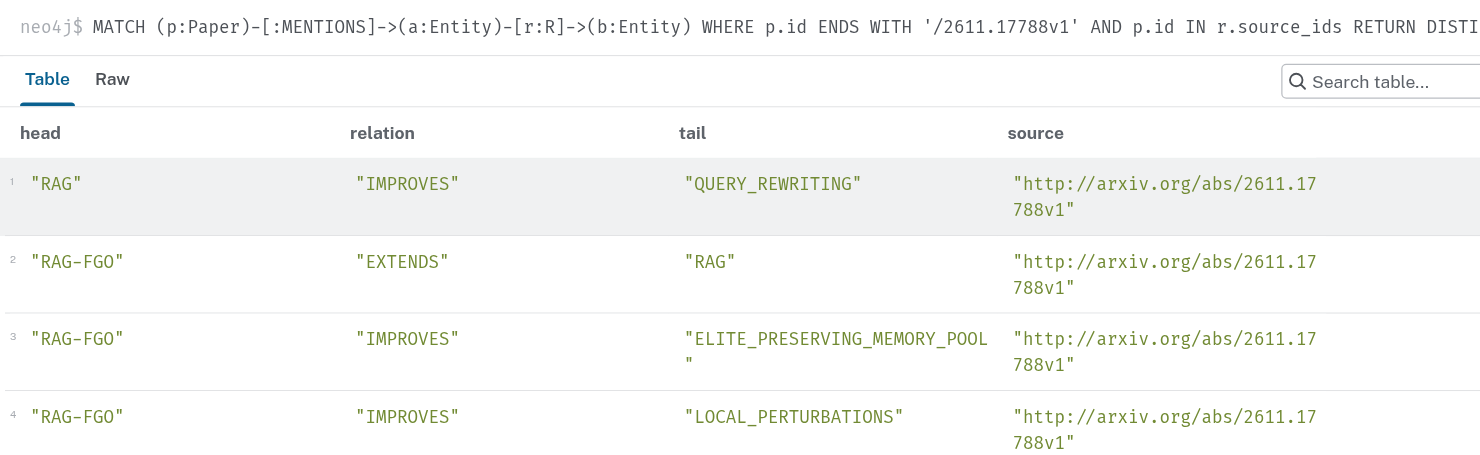
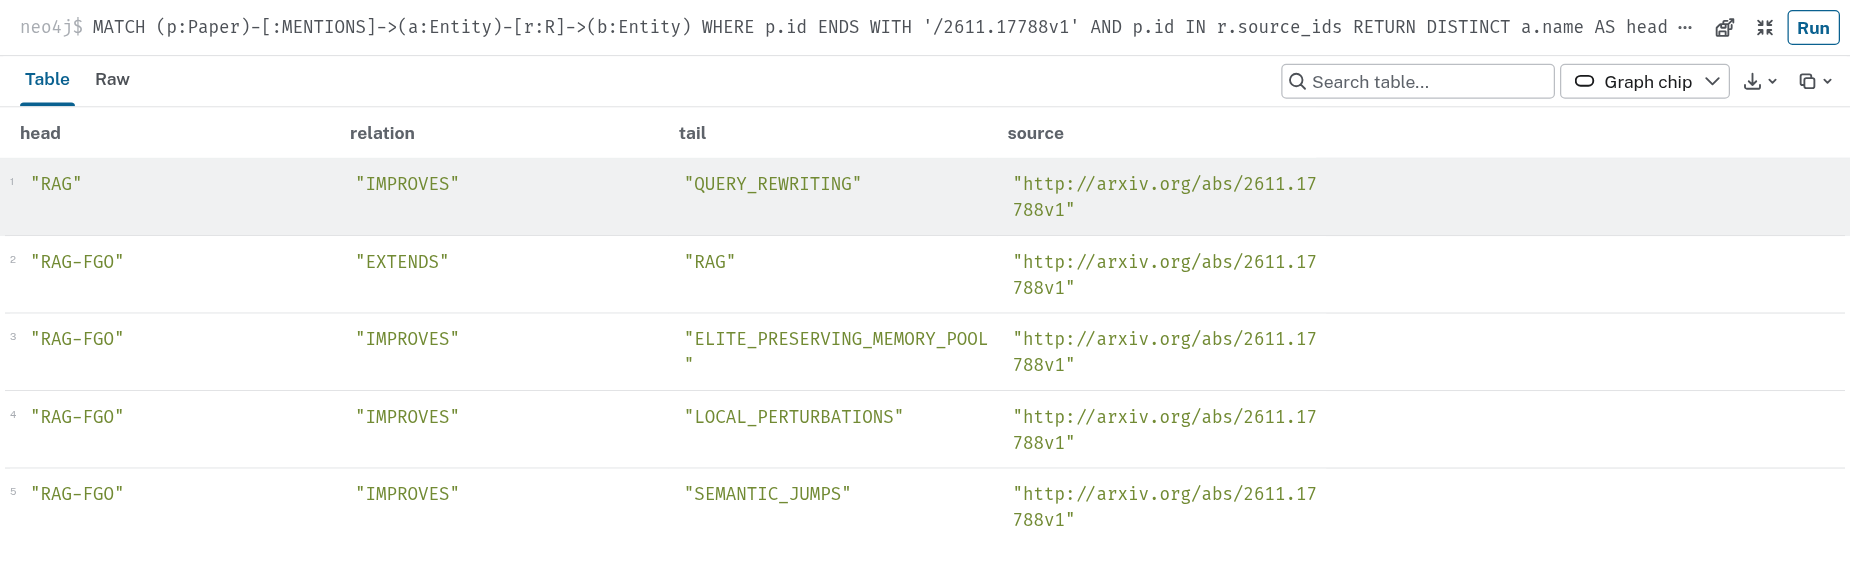
Clarify the RAG-FGO example and substantiate review results

diff --git a/README.md b/README.md
@@ -1,6 +1,10 @@
 # GraphRAG Papers — код-ревью
 
-Локальный сервис ответов по английским аннотациям arXiv. Сначала он находит статьи, затем добавляет извлечённые из них связи и передаёт контекст Qwen. Это RAG с графовым обогащением, а не поиск новых статей по графу.
+Локальный сервис ответов по заголовкам и аннотациям из категории arXiv `cs.CL` (вычислительная лингвистика). Полные PDF не загружаем. Корпус и граф готовим заранее; при вопросе в интернет за статьями не идём.
+
+**Какой здесь RAG?** RAG (*retrieval-augmented generation*) — генерация ответа с опорой на найденные документы. Здесь поиск гибридный: MiniLM даёт вектор вопроса для поиска по смыслу, а распознанное имя метода дополнительно ищется в заголовках. Выбираем до трёх статей. Только после этого читаем из графа связи с указанием этих статей как источников. Qwen получает вопрос, заголовки, аннотации, ссылки и отобранные связи. Граф обогащает ответный контекст, но не выбирает дополнительные статьи.
+
+**А что такое RAG-FGO?** Это метод **из демонстрационной статьи**, а не алгоритм этого сервиса. По [аннотации](data/papers.json#L2350), авторы подбирают, как лучше переформулировать поисковый запрос: меняют шаблон инструкции и параметры генерации, а удачные стратегии сохраняют для следующих итераций. В нашем [`prepare_context`](code/qa.py) строка вопроса сразу поступает в `model.encode(question)`: ни переписывания вопроса, ни пула стратегий здесь нет. Поэтому на ревью говори: «Мой RAG отвечает **про** RAG-FGO, а не работает **по методу** RAG-FGO».
 
 **На ревью ничего не запускай.** Открой код и [сохранённые результаты](RESULTS_RU.md). Для репетиции: [план подготовки](PREP_RU.md), [короткие ответы](QUESTIONS_RU.md) и [подробный разбор вопросов по коду](CODE_QUESTIONS_DETAILED_RU.md).
 
@@ -21,6 +25,8 @@
 ## Отдельно: подготовка локальной базы
 
 Нужны Python 3.12+, `uv`, Neo4j с поддержкой векторных индексов и Ollama. В `data/` уже есть корпус и тройки, получать их заново не обязательно. Подготовка меняет БД: используй отдельную локальную базу.
+
+Все команды в материалах даны из папки с этим README, `pyproject.toml` и `code/`: в отдельном репозитории это корень, в исходном проекте — `review/code-review/`.
 
 ```bash
 uv sync

diff --git a/PREP_RU.md b/PREP_RU.md
@@ -6,7 +6,7 @@
 |---|---|---|
 | Настрой экран | Открой эту папку. Увеличь шрифт. Разложи вкладки по [сценарию](README.md). Открой [результаты](RESULTS_RU.md); найди `2611.17788v1` в `data/triplets.jsonl`. | Быстро находишь `ask_endpoint`, тройку, `source_ids` и два ответа. |
 | Разбери трудные места | В [разборе вопросов](QUESTIONS_RU.md) закрой ответы и объясни `yield`, приоритет совпадения в заголовке, `coalesce`, `source_ids` и `bool(set(...) & found)`. | На каждый вопрос сначала отвечаешь одним предложением, потом рисуешь пример. |
-| Прогони один пример | Для `RAG-FGO` отбрось общее `RAG`, поставь B со совпадением выше A без него, а затем пропусти связь только с правильным `source_ids`. Сравни два промпта. | Можешь объяснить все четыре перехода без подсказки. |
+| Прогони один пример | Возьми вопрос `How does RAG-FGO improve RAG?` Из него сохраняется целиком `rag-fgo`, а **отдельное слово** `RAG` отбрасывается. Статья с `RAG-FGO` в заголовке идёт выше кандидата без совпадения. Дальше проверь `source_ids` у связи и сравни два промпта. | Объясняешь, что твой сервис ищет статью про RAG-FGO, а не реализует метод из неё. |
 | Отрепетируй показ | Пройди [маршрут](README.md) вслух от подготовки данных до результата. Уложись в общий лимит. Если не успеваешь, убери подробности HTTP, регулярных выражений и формата полного отчёта. | Не пропустил разницу между `MENTIONS` и `source_ids` и можешь объяснить, почему сравнение честное. |
 | Подготовь вопросы | Повтори, что доказывают `4/4` и `1/4`, что ограничивают `num_ctx` и `num_predict` и почему граф не расширяет поиск. Закрой лишние вкладки и `.env`. | Начинаешь с задачи, не просишь терминал и не называешь старый отчёт живым результатом. |
 

diff --git a/RESULTS_RU.md b/RESULTS_RU.md
@@ -46,3 +46,7 @@
 | Среднее время этапа генерации | 28,6 с | 47,4 с |
 
 Ожидаемая статья в топ-3 у **4 из 4** вопросов с ожидаемой статьёй. В обоих режимах модель не стала выдумывать актуальную цену видеокарты. Содержательный разбор с помощью ИИ не обнаружил явного выигрыша графа; набор маленький, не отложенный, не независимый. Время относится к генерации у клиента в том прогоне; оно включает эффекты загрузки и кеша, а не измеряет полную задержку API. В прогоне использовали `num_predict=256`; в копии текущего кода — `1024`.
+
+**Пример, почему попадания в топ-3 недостаточно.** В вопросе про Bioformer обе версии нашли и процитировали нужную статью, но обе перепутали «у модели около 40% от исходного числа параметров» с «у модели на 40% меньше параметров». Если было 100 и осталось 40, стало **на 60% меньше**. Правильная ссылка не делает вывод правильным.
+
+**Откуда взяты цифры:** [исходный отчёт с промптами и ответами](https://github.com/P0dp1vass/graphrag-papers/blob/main/data/evaluations/graph_eval_20261125_152620_112169.json) и [поопросный разбор](https://github.com/P0dp1vass/graphrag-papers/blob/main/data/evaluations/graph_eval_20261125_152620_112169.review.json). Разбор делал тот же ИИ-помощник, который участвовал в разработке; это не слепая экспертная оценка.
